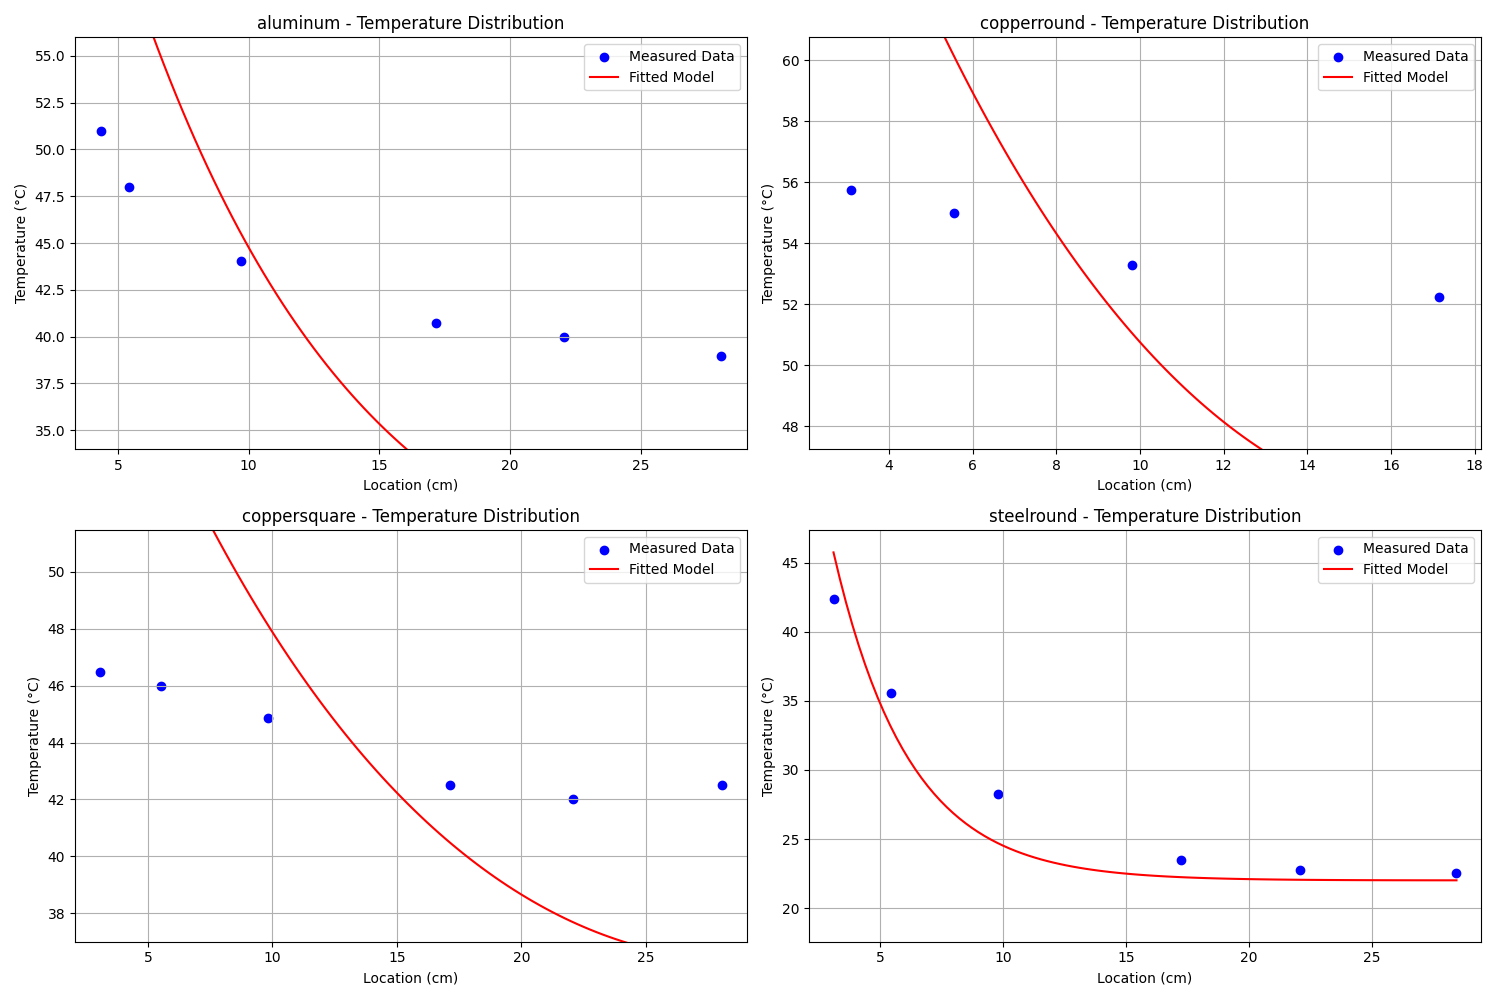
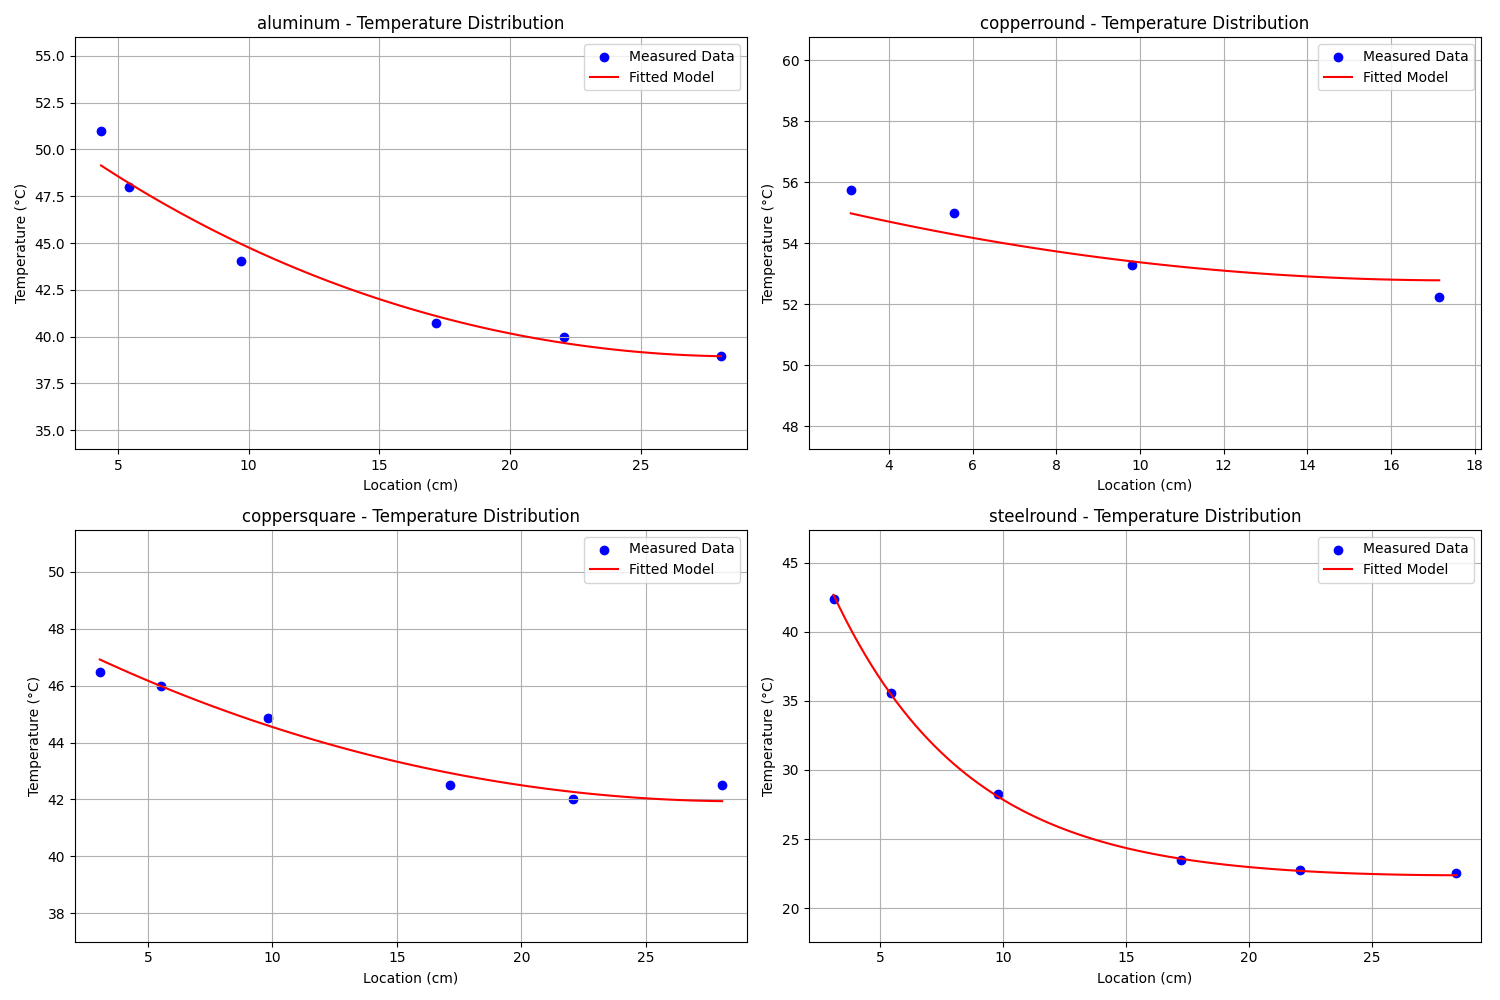
WE ARE SO BACK

diff --git a/Lab_1.py b/Lab_1.py
@@ -34,7 +34,8 @@ def add_labsheet_data(data):
             data[fin]["P"] = 2 * (data[fin]["W"] + data[fin]["H"])
             data[fin]["locs"] = 1e-2*np.array([3.06, 5.50, 9.82, 17.15, 22.07, 28.07])
             data[fin]["volts"] = 40
-            data[fin]["T_b"] = 68
+            #data[fin]["T_b"] = 68
+            data[fin]["T_b"] = data[fin]["T0"]
             data[fin]["current"] = 0.216
             data[fin]["power"] = data[fin]["volts"] * data[fin]["current"]
         elif fin == "copperround":
@@ -45,7 +46,8 @@ def add_labsheet_data(data):
             data[fin]["P"] = np.pi * data[fin]["D"]
             data[fin]["locs"] = 1e-2*np.array([3.09, 5.56, 9.80, 17.15]) # copper round has only 4 measurement points
             data[fin]["volts"] = 40
-            data[fin]["T_b"] = 81
+            #data[fin]["T_b"] = 81
+            data[fin]["T_b"] = data[fin]["T0"]
             data[fin]["current"] = 0.218
             data[fin]["power"] = data[fin]["volts"] * data[fin]["current"]
         elif fin == "steelround":
@@ -56,7 +58,8 @@ def add_labsheet_data(data):
             data[fin]["P"] = np.pi * data[fin]["D"]
             data[fin]["locs"] = 1e-2*np.array([3.10, 5.44, 9.81, 17.22, 22.07, 28.45])
             data[fin]["volts"] = 35
-            data[fin]["T_b"] = 87
+            #data[fin]["T_b"] = 87
+            data[fin]["T_b"] = data[fin]["T0"]
             data[fin]["current"] = 0.182
             data[fin]["power"] = data[fin]["volts"] * data[fin]["current"]
         elif fin == "aluminum":
@@ -67,7 +70,8 @@ def add_labsheet_data(data):
             data[fin]["P"] = np.pi * data[fin]["D"]
             data[fin]["locs"] = 1e-2*np.array([4.35, 5.41, 9.72, 17.15, 22.07, 28.07])
             data[fin]["volts"] = 45
-            data[fin]["T_b"] = 91
+            #data[fin]["T_b"] = 91
+            data[fin]["T_b"] = data[fin]["T0"]
             data[fin]["current"] = 0.247
             data[fin]["power"] = data[fin]["volts"] * data[fin]["current"]
     return data
@@ -205,7 +209,7 @@ for fin in data:
     data[fin]["h"] = h
     print(f"Best h for {fin}: {h}")
 
-#plot_all_data(data)
+plot_all_data(data)
 
 for fin in data:
     fin_data = data[fin]
